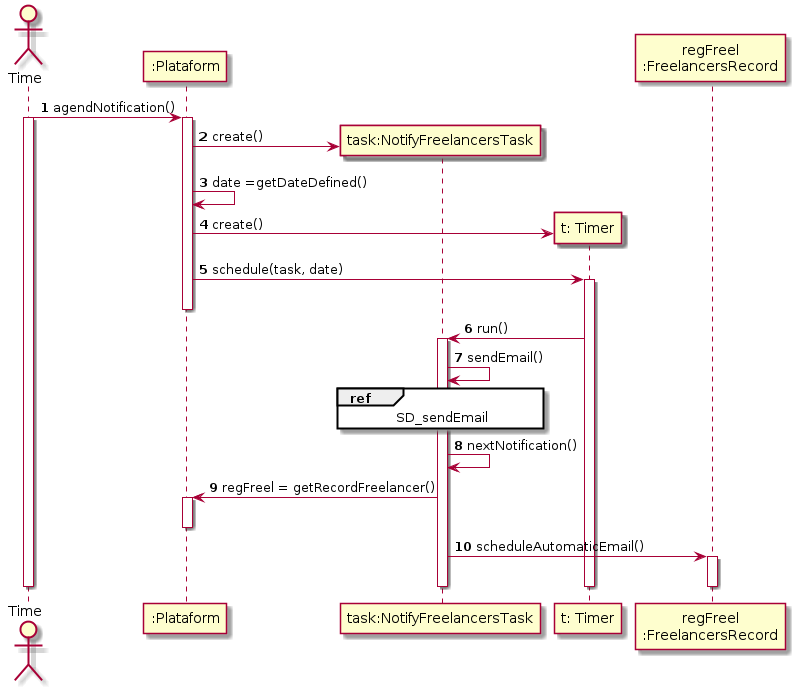
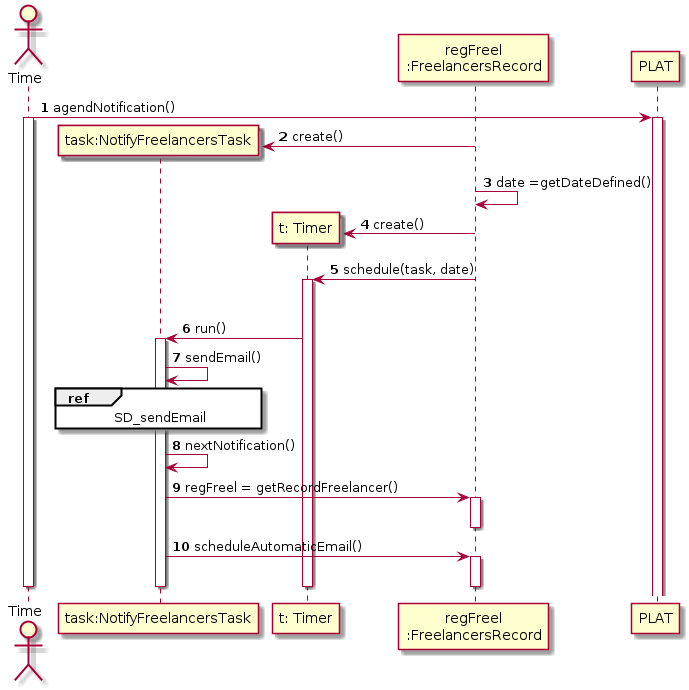
Changes SD [UC-10] Started the uc-10 coding

Changed region(s): [[0.0, 0.0304, 1.0, 1.0], [0.0, 0.0, 0.061, 0.1217]]

diff --git a/src/Lapr2_InterfaceGrafica/src/main/java/com/mycompany/lapr2_interfacegrafica/model/FreelancersRecord.java b/src/Lapr2_InterfaceGrafica/src/main/java/com/mycompany/lapr2_interfacegrafica/model/FreelancersRecord.java
@@ -1,6 +1,8 @@
 package com.mycompany.lapr2_interfacegrafica.model;
 
 import java.util.ArrayList;
+import java.util.Calendar;
+import java.util.Date;
 import java.util.List;
 
 public class FreelancersRecord {
@@ -14,7 +16,12 @@ public class FreelancersRecord {
     private String country;
     private String adress;
 
+    private Organization org;
+    private Platform plat;
+    private Freelancer freel;
+
     private final List<Freelancer> arrayFreelancers;
+    private PaymentTransactionList payemntTransList;
 
     public FreelancersRecord() {
         this.arrayFreelancers = new ArrayList<>();
@@ -54,7 +61,64 @@ public class FreelancersRecord {
             }
         }
         return null;
+    }
 
+    public Date getDateDefined() {
+        Calendar dia = Calendar.getInstance();
+        dia.set(Calendar.MONTH, 12);
+        dia.set(Calendar.DAY_OF_MONTH, 31);
+        dia.set(Calendar.HOUR_OF_DAY, 23);
+        dia.set(Calendar.MINUTE, 59);
+        dia.set(Calendar.SECOND, 30);
+        return dia.getTime();
+    }
+
+    public void scheduleAutomaticEmail() {
+        NotifyFreelancerTask task = new NotifyFreelancerTask();
+        Date data = getDateDefined();
+        Timer t = new Timer();
+        t.schedule(task, data);
+    }
+
+    public void sendEmails() {
+        int numberTransactions = 0, delay = 0, amountForHourDelay = 0;
+
+        org = plat.getOrganization();
+        payemntTransList = org.getPaymentTransactionList();
+        List<PaymentTransaction> payemntTransList1 = payemntTransList.getPaymentTransactions();
+        for (int i = 0; i < arrayFreelancers.size(); i++) {
+            Freelancer freel = arrayFreelancers.get(i);
+            for (int k = 0; k < payemntTransList1.size(); k++) {
+                PaymentTransaction trans = payemntTransList1.get(k);
+                Freelancer freelTrans = payemntTransList1.get(k).getM_oFreelancer();
+                if (freel == freelTrans) {
+                    numberTransactions++;
+                    int delayTrans = trans.getM_Delay();
+                    if (delayTrans > 0) {
+                        delay++;
+                        amountForHourDelay++;
+                    }
+                }
+            }
+            int percentageDelayFreel = delay / numberTransactions;
+            double averageDelay = getAverageDelay();
+            if (delay > 3 && percentageDelayFreel > averageDelay) {
+               freel.getEmail();
+               //sendEmail(); Mando para onde?
+            }
+        }
+    }
+
+    public double getAverageDelay() {
+        int totalDelay = 0, n = 0;
+        List<PaymentTransaction> payemntTransList1 = payemntTransList.getPaymentTransactions();
+        for (int k = 0; k < payemntTransList1.size(); k++) {
+            PaymentTransaction trans = payemntTransList1.get(k);
+            int delayTrans = trans.getM_Delay();
+            totalDelay = totalDelay + delayTrans;
+            n++;
+        }
+        return totalDelay / n;
     }
 
 }

diff --git a/src/Lapr2_InterfaceGrafica/src/main/java/com/mycompany/lapr2_interfacegrafica/model/NotifyFreelancerTask.java b/src/Lapr2_InterfaceGrafica/src/main/java/com/mycompany/lapr2_interfacegrafica/model/NotifyFreelancerTask.java
@@ -1,0 +1,35 @@
+/*
+ * To change this license header, choose License Headers in Project Properties.
+ * To change this template file, choose Tools | Templates
+ * and open the template in the editor.
+ */
+package com.mycompany.lapr2_interfacegrafica.model;
+
+/**
+ *
+ * @author pedro
+ */
+public class NotifyFreelancerTask extends Timer {
+    
+    private FreelancersRecord freelRec;
+    private Platform plat;
+    
+    public NotifyFreelancerTask(){
+        freelRec=plat.getRegistoFreelancer();
+    }
+    
+    @Override
+    public void run(){
+        sendEmail();
+        nextNotification();
+    }
+    
+    private void sendEmail(){
+        
+    }
+    
+    private void nextNotification(){
+        freelRec.scheduleAutomaticEmail();
+    }
+    
+}

diff --git a/src/Lapr2_InterfaceGrafica/src/main/java/com/mycompany/lapr2_interfacegrafica/model/Timer.java b/src/Lapr2_InterfaceGrafica/src/main/java/com/mycompany/lapr2_interfacegrafica/model/Timer.java
@@ -1,0 +1,33 @@
+/*
+ * To change this license header, choose License Headers in Project Properties.
+ * To change this template file, choose Tools | Templates
+ * and open the template in the editor.
+ */
+package com.mycompany.lapr2_interfacegrafica.model;
+
+import java.util.Date;
+
+/**
+ *
+ * @author pedro
+ */
+public class Timer {
+    
+    private Date date;
+    
+    private FreelancersRecord freelRec;
+    private NotifyFreelancerTask task;
+    
+    public Timer(){
+    }
+    
+    public void schedule(NotifyFreelancerTask task, Date date){
+        this.task=task;
+        this.date=date;
+    }
+    
+    public void run(){
+        
+    }
+    
+}
